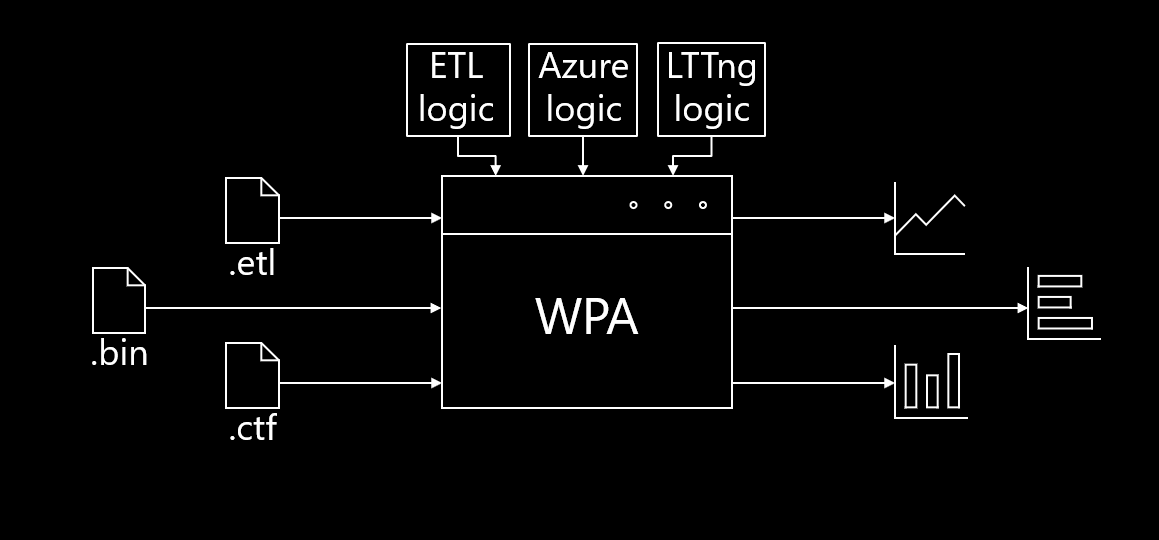
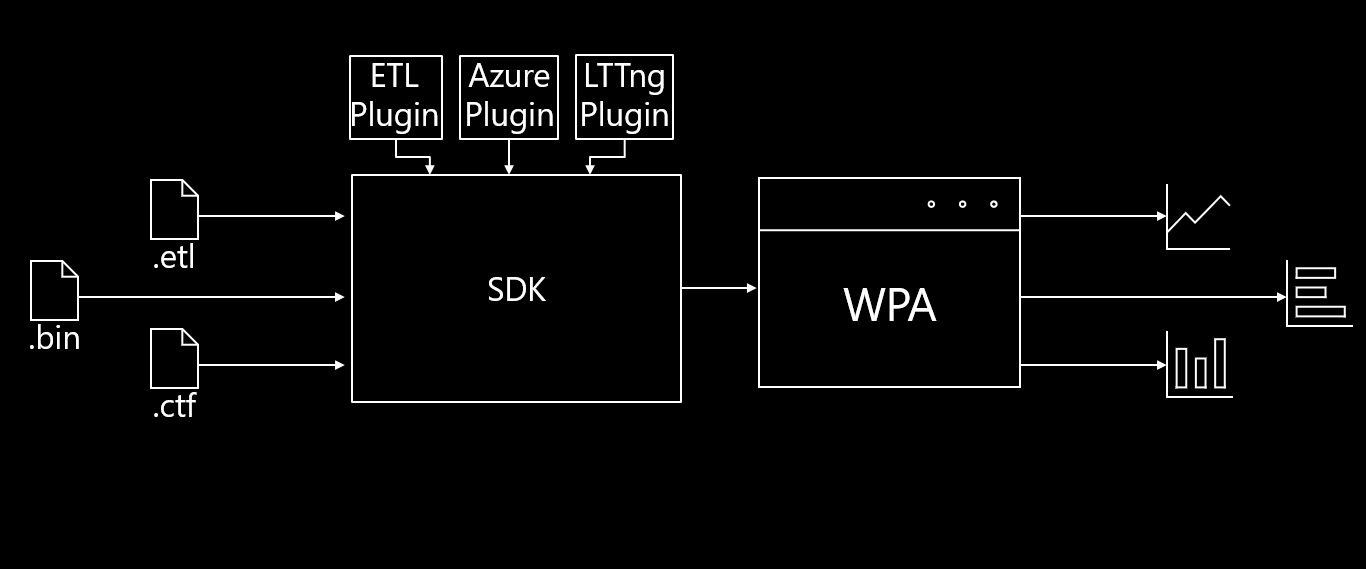
Renewed pictures + cleaned up structure

diff --git a/documentation/Architecture/Overview.md b/documentation/Architecture/Overview.md
@@ -38,45 +38,39 @@ We recommend using Windows Performance Analyzer (WPA) to interact with the data 
 
 The SDK operates as an interface between the Driver and Custom Data Source. It facilitates the data retrieval from the CDS and dynamically loads that information to the Driver.
 
-# Custom Data Source
+# Plugins
 
-A Custom Data Source (CDS) has instructions to parse the Data Source. A CDS advertises the data source which it can parse.
-If the relevant binaries exist, the CDS has the logic for creating tables from the data source in a . 
-One or more Custom Data Sources is a plugin. Plugins are compiled into binaries which are loaded into the SDK to handle table building.
+A plugin is one or more Custom Data Sources compiled as a package of binaries for the SDK to read. A plugin contains the logic
+to read, format, and standardize the data from particular data sources into programmatically accessible data for the SDK to serve to the Driver.
+
+![](.attachments/CustomDataSource.png)
+
+In the above example, there must be an LTTng plugin to read those trace files.
 
 <details>
 
 <summary>Custom Data Source Model</summary>
  
 
-A Custom Data Source is a containerized unit with instructions on how to read a custom data source.
+A Custom Data Source (CDS) is a containerized unit which has instructions to parse the Data Source. 
 Every Custom Data Source has to advertise the supported file types (data sources). 
-They also contain logic for data processors which creates tables from the data source.
+If the relevant binaries exist, the CDS has the logic for creating tables from the data source.
 
 The tables are returned as binary instructions from the Data Processor to the SDK to create 0 or more tables.
 The Driver (WPA is recommended) dynamically loads each Custom Data Source at runtime through the SDK.
 
-
-![](.attachments/CustomDataSource.png)
-Change WPA to driver
-
 The Custom Data Source Model allows developers to use any arbitrary data source with the SDK to build desired tables using plugins. 
-A plugin is one or more Custom Data Sources compiled as a package of binaries for the SDK to read.
-In the above example, there must be an LTTng plugin to read those trace files.
-
-
-For implementation details, please view [Using the SDK/Creating A Simple Custom Data Source](../Using-the-SDK/Creating-a-simple-custom-data-source.md).
 
 </details>
+
+For implementation details, please view [Using the SDK/Creating A Simple Custom Data Source](../Using-the-SDK/Creating-a-simple-custom-data-source.md).
 
 
 # Next Steps
 
 To best understand how the SDK works and how to develop SDK plugins, it is recommended to read documentation in the following order:
 1) [Overview](./Overview.md) to understand at a high level the various system the SDK provides
-2) [The Custom Data Source Model](./The-Custom-Data-Source-Model.md) to understand how the SDK allows developers to implement 
-logic for processing arbitrary data sources
-3) [The Data Processing Pipeline](./The-Data-Processing-Pipeline.md) to understand how to systematically process data that 
+2) [The Data Processing Pipeline](./The-Data-Processing-Pipeline.md) to understand how to systematically process data that 
 can be used by tables
 4) [Data Extensions](.Data-Extensions.md) to understand how data involved in data processing pipelines can be used by 
 other plugins

diff --git a/documentation/Architecture/The-Data-Processing-Pipeline.md b/documentation/Architecture/The-Data-Processing-Pipeline.md
@@ -1,19 +1,22 @@
 # The Data Processing Pipeline
 
-The [Custom Data Source](./The-Custom-Data-Source-Model.md) (CDS) uses a Data Processor to read from the Data Source. Since the plugins are dynamicaly loaded into the Driver by the SDK,
+The Custom Data Source (CDS) uses a Data Processor to read from the Data Source. Since the plugins are dynamicaly loaded into the Driver by the SDK,
 we want to ensure that the Data Processors are efficient in reading and formatting the raw data from the data source.
 
 
 Due to the Data Processor, we can efficiently access information from multiple binaries and reuse data.
-Data  can be easily shared and the developer is granted maximal flexibility for modular code.
+Data can be easily shared and the developer is granted maximal flexibility for modular code.
 
 A Data Processor contains a Source Parser and a Data Cooker.
+
+![](.attachments/DataProcessingPipeline.png)
+
 
 # Source Parser
 
 The Source Parser is created by a CDS and used by the Data processor to:
-	* read in raw data from the data source 
-	* create a standardized data format
+	- read in raw data from the data source 
+	- create a standardized data format
 
 The standardized data is then sent to a data cooker.
 
@@ -22,7 +25,7 @@ The standardized data is then sent to a data cooker.
 The Data Cooker consumes events sent from the Source Parser and specifies the data keys. 
 This allows for the standardized data to be read into a C# data structure and allows programmatic access to any data.
 
-Data Cookers can also send data to eachother and into tables through the SDK.
+Data Cookers can also send data into tables and to eachother through the SDK.
 
 # Data Extensions
 
@@ -32,9 +35,7 @@ TODO
 
 To best understand how the SDK works and how to develop SDK plugins, it is recommended to read documentation in the following order:
 1) [Overview](./Overview.md) to understand at a high level the various system the SDK provides
-2) [The Custom Data Source Model](./The-Custom-Data-Source-Model.md) to understand how the SDK allows developers to implement 
-logic for processing arbitrary data sources
-3) [The Data Processing Pipeline](./The-Data-Processing-Pipeline.md) to understand how to systematically process data that 
+2) [The Data Processing Pipeline](./The-Data-Processing-Pipeline.md) to understand how to systematically process data that 
 can be used by tables
 4) [Data Extensions](.Data-Extensions.md) to understand how data involved in data processing pipelines can be used by 
 other plugins
@@ -44,4 +45,4 @@ take in a specific data source and output structured tables
 7) [Using the SDK/Creating a Data Processing Pipeline](./Using-the-SDK/Creating-a-pipeline.md) to see how to create a data processing pipeline that 
 exposes data that can be consumed by your tables and other plugins
 8) [Using the SDK/Creating an Extended Table](./Using-the-SDK/Creating-an-extended-table.md) to see how to use data cookers to obtain the data to display 
-inside of a tableable
+inside of a table
